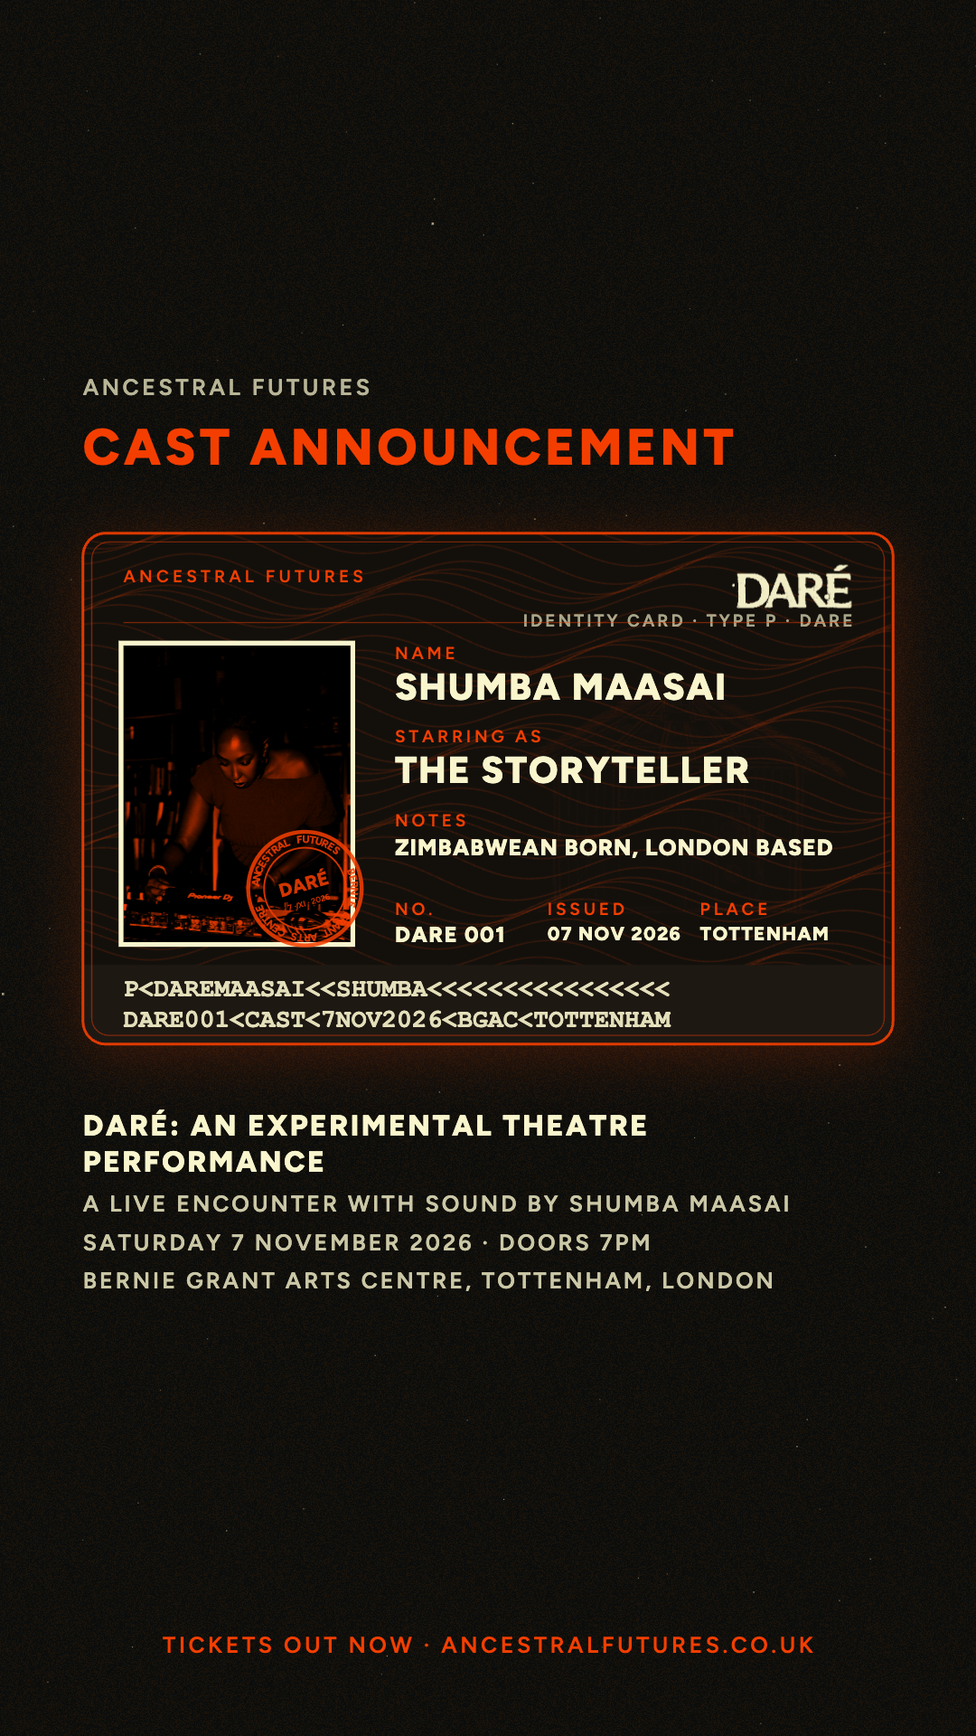
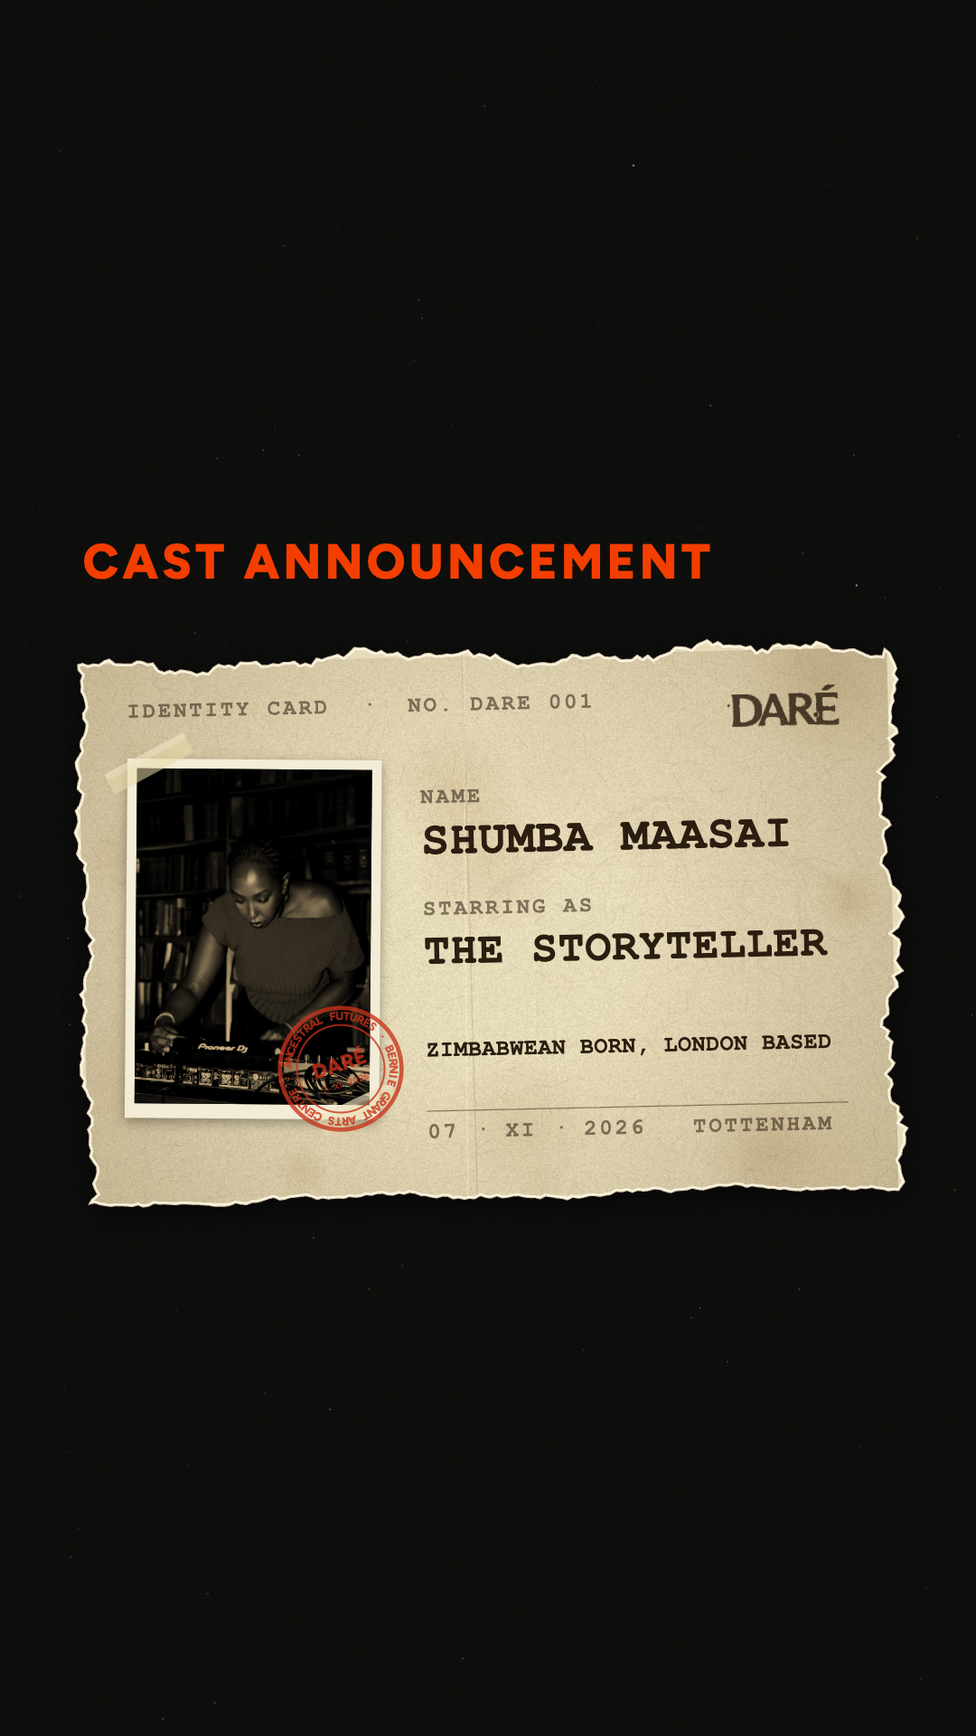
The cast card is a torn piece of old paper, and says less
What was a passport page read as a ticket, and then as a document with
too much on it. Now: paper drawn from noise, fibres, foxing and a fold,
torn along every edge with the fibres showing light at the tear, set
down a little askew with a plain shadow and no glow. The print is
pasted on with two strips of tape, sepia unless told otherwise. The
words are typed: the name, the part, one line about them, the date.
The frame carries the heading and nothing else; the date, the venue
and the ticket line belong in the caption.

diff --git a/public/cast.html b/public/cast.html
@@ -182,14 +182,9 @@
       </div>
 
       <details>
-        <summary>The show, on every card</summary>
+        <summary>On every card</summary>
         <div class="inner">
-          <label class="f">Show<input type="text" data-g="show"></label>
-          <label class="f">Line under it<input type="text" data-g="sub"></label>
-          <label class="f">Date<input type="text" data-g="date"></label>
-          <label class="f">Place<input type="text" data-g="place"></label>
-          <label class="f">Last line<input type="text" data-g="cta"></label>
-          <label class="f">Issued by<input type="text" data-g="issuer"></label>
+          <label class="f">On the stamp<input type="text" data-g="issuer"></label>
         </div>
       </details>
     </div>
@@ -221,16 +216,9 @@ const KINDS = {
   band:  { label:'Band',          heading:'The band',          roleLabel:'Playing' },
   guest: { label:'Special guest', heading:'Special guest',     roleLabel:'Appearing as' },
 };
-const TREATS = { orange:'Orange', natural:'Natural', mono:'Black and white' };
+const TREATS = { sepia:'Sepia', mono:'Black and white', orange:'Orange', natural:'Natural' };
 
-const GLOBAL_DEFAULT = {
-  show:'DARÉ: An Experimental Theatre Performance',
-  sub:'A live encounter with sound by Shumba Maasai',
-  date:'Saturday 7 November 2026 · Doors 7pm',
-  place:'Bernie Grant Arts Centre, Tottenham, London',
-  cta:'Tickets out now · ancestralfutures.co.uk',
-  issuer:'Ancestral Futures',
-};
+const GLOBAL_DEFAULT = { issuer:'Ancestral Futures' };
 
 // ---------- storage ----------
 const DB = { name:'dare-cast', store:'cards' };
@@ -342,7 +330,7 @@ const pic = document.createElement('canvas');
 function drawPicture(ctx, source, x, y, w, h, card) {
   ctx.save();
   ctx.beginPath(); ctx.rect(x, y, w, h); ctx.clip();
-  ctx.fillStyle = card.treat === 'orange' ? '#1a0a02' : '#101010';
+  ctx.fillStyle = card.treat === 'orange' ? '#1a0a02' : '#2a241c';
   ctx.fillRect(x, y, w, h);
   if (source) {
     const sw = source.videoWidth || source.naturalWidth || source.width;
@@ -357,11 +345,11 @@ function drawPicture(ctx, source, x, y, w, h, card) {
       } else {
         pic.width = Math.max(1, Math.round(w)); pic.height = Math.max(1, Math.round(h));
         const g = pic.getContext('2d');
-        g.filter = card.treat === 'orange' ? 'grayscale(1) contrast(1.35) brightness(0.95)' : 'grayscale(1) contrast(1.15)';
+        g.filter = card.treat === 'orange' ? 'grayscale(1) contrast(1.35) brightness(0.95)' : card.treat === 'sepia' ? 'grayscale(1) contrast(1.12) brightness(1.04)' : 'grayscale(1) contrast(1.15)';
         g.drawImage(source, dx - x, dy - y, dw, dh);
         g.filter = 'none';
-        if (card.treat === 'orange') {
-          g.globalCompositeOperation = 'multiply'; g.fillStyle = P.orange; g.fillRect(0, 0, pic.width, pic.height);
+        if (card.treat === 'orange' || card.treat === 'sepia') {
+          g.globalCompositeOperation = 'multiply'; g.fillStyle = card.treat === 'orange' ? P.orange : '#d2b685'; g.fillRect(0, 0, pic.width, pic.height);
           g.globalCompositeOperation = 'source-over';
         }
         ctx.drawImage(pic, x, y, w, h);
@@ -379,7 +367,7 @@ function drawPicture(ctx, source, x, y, w, h, card) {
 function stamp(ctx, cx, cy, r, text, angle) {
   ctx.save();
   ctx.translate(cx, cy); ctx.rotate(angle || -0.22);
-  ctx.strokeStyle = P.orange; ctx.fillStyle = P.orange; ctx.globalAlpha = 0.86;
+  ctx.strokeStyle = '#c8321a'; ctx.fillStyle = '#c8321a'; ctx.globalAlpha = 0.78;
   ctx.lineWidth = r * 0.07; ctx.beginPath(); ctx.arc(0, 0, r, 0, Math.PI * 2); ctx.stroke();
   ctx.lineWidth = r * 0.03; ctx.beginPath(); ctx.arc(0, 0, r * 0.72, 0, Math.PI * 2); ctx.stroke();
   ctx.font = `800 ${Math.round(r * 0.19)}px ${FONT}`; ctx.textAlign = 'center'; ctx.textBaseline = 'middle';
@@ -406,151 +394,171 @@ function mrz(text, len) {
 // ===========================================================
 // THE CARD
 // ===========================================================
+/* Paper, made once per size and kept: an uneven cream, the fibres,
+   the foxing, darker towards the edges, and one fold. Nothing in it is
+   a photograph; it is all drawn, so it never repeats from card to
+   card unless the seed does. */
+const paperCache = {};
+function paper(w, h, seed) {
+  const key = `${w}x${h}:${seed}`;
+  if (paperCache[key]) return paperCache[key];
+  const c = document.createElement('canvas'); c.width = w; c.height = h;
+  const g = c.getContext('2d'); const r = rnd(seed);
+  g.fillStyle = '#e6dbb9'; g.fillRect(0, 0, w, h);
+  const img = g.getImageData(0, 0, w, h); const d = img.data;
+  for (let i = 0; i < d.length; i += 4) { const n = (r() - 0.5) * 28; d[i] += n; d[i + 1] += n; d[i + 2] += n * 0.85; }
+  g.putImageData(img, 0, 0);
+  g.strokeStyle = 'rgba(110,80,40,0.11)'; g.lineWidth = 1;
+  for (let i = 0; i < (w * h) / 700; i++) { const x = r() * w, y = r() * h, a = r() * Math.PI, l = 4 + r() * 22; g.beginPath(); g.moveTo(x, y); g.lineTo(x + Math.cos(a) * l, y + Math.sin(a) * l); g.stroke(); }
+  for (let i = 0; i < 14; i++) {
+    const x = r() * w, y = r() * h, rad = w * (0.02 + r() * 0.1);
+    const gr = g.createRadialGradient(x, y, 0, x, y, rad);
+    gr.addColorStop(0, `rgba(140,95,40,${0.05 + r() * 0.12})`); gr.addColorStop(1, 'rgba(140,95,40,0)');
+    g.fillStyle = gr; g.fillRect(x - rad, y - rad, rad * 2, rad * 2);
+  }
+  const v = g.createRadialGradient(w / 2, h / 2, Math.min(w, h) * 0.25, w / 2, h / 2, Math.max(w, h) * 0.72);
+  v.addColorStop(0, 'rgba(90,60,20,0)'); v.addColorStop(1, 'rgba(90,60,20,0.3)');
+  g.fillStyle = v; g.fillRect(0, 0, w, h);
+  const fx = w * (0.42 + r() * 0.16);
+  g.strokeStyle = 'rgba(90,60,20,0.16)'; g.lineWidth = Math.max(1, w * 0.0015);
+  g.beginPath(); g.moveTo(fx, 0); g.lineTo(fx + (r() - 0.5) * w * 0.02, h); g.stroke();
+  g.strokeStyle = 'rgba(255,250,230,0.35)'; g.beginPath(); g.moveTo(fx + 2, 0); g.lineTo(fx + 2 + (r() - 0.5) * w * 0.02, h); g.stroke();
+  paperCache[key] = c;
+  return c;
+}
+
+/* The torn edge, as a path. Each side is a line with three waves of
+   noise laid on it, a long one, a short one and a jitter, and the top
+   and right are rougher than the bottom and left, which is how a piece
+   torn from a larger sheet comes away. */
+function tornPath(ctx, x, y, w, h, seed) {
+  const r = rnd(seed); const pts = [];
+  const edge = (x0, y0, x1, y1, rough) => {
+    const n = Math.max(14, Math.round(Math.hypot(x1 - x0, y1 - y0) / 6));
+    const len = Math.hypot(x1 - x0, y1 - y0); const ux = -(y1 - y0) / len, uy = (x1 - x0) / len;
+    const p1 = r() * 6.28, p2 = r() * 6.28, p3 = r() * 6.28;
+    for (let i = 0; i < n; i++) {
+      const t = i / n;
+      const a = (Math.sin(t * 6.28 * 2.3 + p1) * 0.5 + Math.sin(t * 6.28 * 7.1 + p2) * 0.3 + Math.sin(t * 6.28 * 23 + p3) * 0.15 + (r() - 0.5) * 0.5) * rough;
+      pts.push([x0 + (x1 - x0) * t + ux * a, y0 + (y1 - y0) * t + uy * a]);
+    }
+  };
+  edge(x, y, x + w, y, w * 0.014);
+  edge(x + w, y, x + w, y + h, w * 0.018);
+  edge(x + w, y + h, x, y + h, w * 0.007);
+  edge(x, y + h, x, y, w * 0.011);
+  ctx.beginPath(); pts.forEach((p, i) => (i ? ctx.lineTo(p[0], p[1]) : ctx.moveTo(p[0], p[1]))); ctx.closePath();
+}
+
+// A strip of old tape, yellowed and half see-through, laid across a corner.
+function tape(ctx, x, y, w, h, angle) {
+  ctx.save(); ctx.translate(x, y); ctx.rotate(angle);
+  ctx.fillStyle = 'rgba(232,218,170,0.55)'; ctx.fillRect(-w / 2, -h / 2, w, h);
+  ctx.fillStyle = 'rgba(255,255,255,0.18)'; ctx.fillRect(-w / 2, -h / 2, w, h * 0.3);
+  ctx.restore();
+}
+
+// ===========================================================
+// THE CARD
+// ===========================================================
 function draw(ctx, W, H, card, G, source, t) {
-  // the night
+  // the night, quiet
   ctx.fillStyle = P.ground; ctx.fillRect(0, 0, W, H);
   const r = rnd(card.seed || 7);
-  for (let i = 0; i < (W * H) / 20000; i++) { const x = r() * W, y = r() * H, s = r(); ctx.globalAlpha = 0.2 + s * 0.5; ctx.fillStyle = s > 0.93 ? P.cream : '#cfc9a8'; ctx.fillRect(x, y, s > 0.96 ? 2.4 : 1.2, s > 0.96 ? 2.4 : 1.2); }
+  for (let i = 0; i < (W * H) / 26000; i++) { const x = r() * W, y = r() * H, s = r(); ctx.globalAlpha = 0.15 + s * 0.4; ctx.fillStyle = s > 0.93 ? P.cream : '#cfc9a8'; ctx.fillRect(x, y, s > 0.96 ? 2 : 1.2, s > 0.96 ? 2 : 1.2); }
   ctx.globalAlpha = 1;
-  ctx.save(); ctx.globalAlpha = 0.5; const gx = -Math.floor(((t || 0) * 37) % 256), gy = -Math.floor(((t || 0) * 23) % 256);
+  ctx.save(); ctx.globalAlpha = 0.22; const gx = -Math.floor(((t || 0) * 37) % 256), gy = -Math.floor(((t || 0) * 23) % 256);
   ctx.translate(gx, gy); ctx.fillStyle = ctx.createPattern(grain, 'repeat'); ctx.fillRect(-gx, -gy, W, H); ctx.restore();
 
   const pad = W * 0.085;
-  // A square has less height to give, so its heading and the show
-  // beneath the card are set a little smaller than the story's.
   const k = Math.max(0.8, Math.min(1, (H / W) / 1.35));
-  const small = Math.round(W * 0.0235 * k);
-  const hs = Math.round(W * 0.052 * k);
-  const ss = Math.round(W * 0.03 * k);
-  const wrapRows = (text, size, tr, maxW, weight) => {
-    ctx.font = `${weight} ${size}px ${FONT}`;
-    const rows = []; let line = '';
-    for (const w of text.split(/\s+/)) { const tt = line ? line + ' ' + w : w; if (tracked(ctx, tt, size * tr) > maxW && line) { rows.push(line); line = w; } else line = tt; }
-    rows.push(line); return rows;
-  };
+  const hs = Math.round(W * 0.05 * k);
   const heading = (card.heading || KINDS[card.kind].heading).toUpperCase();
-  const headRows = wrapRows(heading, hs, 0.08, W - pad * 2, 800);
-  const showRows = wrapRows(G.show.toUpperCase(), ss, 0.08, W - pad * 2, 800);
-  const lines = [G.sub, G.date, G.place].filter(Boolean);
+  ctx.font = `800 ${hs}px ${FONT}`;
+  const headRows = []; let line = '';
+  for (const w of heading.split(/\s+/)) { const tt = line ? line + ' ' + w : w; if (tracked(ctx, tt, hs * 0.08) > W - pad * 2 && line) { headRows.push(line); line = w; } else line = tt; }
+  headRows.push(line);
 
-  /* The block, measured before anything is drawn: heading, card, show.
-     The card starts as wide as the frame allows and is narrowed until
-     the whole block fits above the line along the bottom, so the square
-     holds everything the story does, smaller. Then it is centred. */
-  const headH = small * 2.1 + headRows.length * hs * 1.18;
-  const detailH = showRows.length * ss * 1.25 + small * 0.4 + lines.length * small * 1.7;
-  const avail = H - pad * 2 - small * 2.2;
+  // the block: the heading and the paper, nothing else, centred. The
+  // date, the venue and the ticket line belong in the caption.
+  const headH = headRows.length * hs * 1.18;
+  const avail = H - pad * 2;
   let cw = W - pad * 2;
-  const blockH = (w) => headH + W * 0.05 + w / 1.586 + W * 0.07 + detailH;
+  const blockH = (w) => headH + W * 0.06 + w / 1.5;
   while (blockH(cw) > avail && cw > W * 0.6) cw *= 0.96;
-  const ch = cw / 1.586;
+  const ch = cw / 1.5;
   const y0 = pad + Math.max(0, (avail - blockH(cw)) / 2);
   const cx = (W - cw) / 2;
 
-  // the heading above the card
-  ctx.save();
-  ctx.textBaseline = 'top'; ctx.fillStyle = P.cream; ctx.globalAlpha = 0.72;
-  ctx.font = `600 ${small}px ${FONT}`; fillTracked(ctx, G.issuer.toUpperCase(), cx, y0, small * 0.14);
-  ctx.globalAlpha = 1; ctx.fillStyle = P.orange; ctx.font = `800 ${hs}px ${FONT}`;
-  let hy = y0 + small * 2.1;
-  for (const rw of headRows) { fillTracked(ctx, rw, cx, hy, hs * 0.08); hy += hs * 1.18; }
+  ctx.save(); ctx.textBaseline = 'top'; ctx.fillStyle = P.orange; ctx.font = `800 ${hs}px ${FONT}`;
+  let hy = y0; for (const rw of headRows) { fillTracked(ctx, rw, cx, hy, hs * 0.08); hy += hs * 1.18; }
   ctx.restore();
 
-  /* The card: a passport's data page rather than a ticket. A dark page
-     with the fine orange lines under everything, a double rule round the
-     edge with the corners rounded, the hut as the watermark, the
-     photograph in a cream frame, cream type with the labels in orange,
-     and the machine-readable lines on a strip along the bottom. */
-  const cy = y0 + headH + W * 0.05;
-  const rad = cw * 0.028;
-  const page = (x, y, w, h, rr) => { ctx.beginPath(); ctx.moveTo(x + rr, y); ctx.arcTo(x + w, y, x + w, y + h, rr); ctx.arcTo(x + w, y + h, x, y + h, rr); ctx.arcTo(x, y + h, x, y, rr); ctx.arcTo(x, y, x + w, y, rr); ctx.closePath(); };
+  /* The paper: a piece torn from a larger sheet, set down a little
+     askew, with a soft shadow under it and nothing glowing. */
+  const cy = y0 + headH + W * 0.06;
+  const seed = card.seed || 7;
   ctx.save();
-  ctx.shadowColor = 'rgba(244,62,0,0.22)'; ctx.shadowBlur = W * 0.06; ctx.shadowOffsetY = W * 0.01;
-  page(cx, cy, cw, ch, rad); ctx.fillStyle = '#13100c'; ctx.fill();
-  ctx.restore();
+  ctx.translate(cx + cw / 2, cy + ch / 2); ctx.rotate(-0.022); ctx.translate(-(cx + cw / 2), -(cy + ch / 2));
+  ctx.save(); ctx.shadowColor = 'rgba(0,0,0,0.6)'; ctx.shadowBlur = W * 0.03; ctx.shadowOffsetY = W * 0.008;
+  tornPath(ctx, cx, cy, cw, ch, seed); ctx.fillStyle = '#e6dbb9'; ctx.fill(); ctx.restore();
   ctx.save();
-  page(cx, cy, cw, ch, rad); ctx.clip();
-  ctx.globalAlpha = 1; ctx.drawImage(guilloche(Math.round(cw), Math.round(ch)), cx, cy); ctx.globalAlpha = 1;
-  if (ART.hutline) { const hw = cw * 0.46, hh = hw * (ART.hutline.height / ART.hutline.width); drawArt(ctx, ART.hutline, cx + cw * 0.5, cy + ch * 0.52 - hh / 2, hw, hh, P.orange, 0.13); }
-  // the header line: who issues it, and what it is
-  const ls = Math.round(ch * 0.034), vs = Math.round(ch * 0.072);
-  ctx.textBaseline = 'top';
-  ctx.fillStyle = P.orange; ctx.font = `600 ${ls}px ${FONT}`;
-  fillTracked(ctx, (G.issuer || 'Ancestral Futures').toUpperCase(), cx + cw * 0.05, cy + ch * 0.07, ls * 0.22);
-  if (ART.word) { const ww = cw * 0.15, wh = ww * (ART.word.height / ART.word.width); drawArt(ctx, ART.word, cx + cw * 0.95 - ww, cy + ch * 0.06, ww, wh, P.cream, 1); }
-  ctx.fillStyle = P.cream; ctx.globalAlpha = 0.65; ctx.font = `600 ${ls}px ${FONT}`;
-  const docText = (card.doc || 'Identity card').toUpperCase() + ' · TYPE P · DARE';
-  fillTracked(ctx, docText, cx + cw * 0.95 - tracked(ctx, docText, ls * 0.16), cy + ch * 0.07 + ls * 1.5 + ch * 0.035, ls * 0.16);
-  ctx.globalAlpha = 1;
-  ctx.strokeStyle = P.orange; ctx.globalAlpha = 0.45; ctx.lineWidth = Math.max(1, W * 0.0012);
-  ctx.beginPath(); ctx.moveTo(cx + cw * 0.05, cy + ch * 0.175); ctx.lineTo(cx + cw * 0.95, cy + ch * 0.175); ctx.stroke();
-  ctx.globalAlpha = 1;
+  tornPath(ctx, cx, cy, cw, ch, seed); ctx.clip();
+  ctx.drawImage(paper(Math.round(cw), Math.round(ch), seed), cx, cy);
+  if (ART.hutline) { const hw = cw * 0.5, hh = hw * (ART.hutline.height / ART.hutline.width); drawArt(ctx, ART.hutline, cx + cw * 0.47, cy + ch * 0.5 - hh / 2, hw, hh, '#5a3a1a', 0.1); }
+  // the torn edge's fibres, light along the inside of the tear
+  tornPath(ctx, cx, cy, cw, ch, seed); ctx.strokeStyle = 'rgba(255,250,232,0.9)'; ctx.lineWidth = Math.max(2, W * 0.006); ctx.stroke();
+  tornPath(ctx, cx, cy, cw, ch, seed); ctx.strokeStyle = 'rgba(120,85,45,0.35)'; ctx.lineWidth = Math.max(1, W * 0.002); ctx.stroke();
 
-  // the photograph, in a cream frame
-  const px = cx + cw * 0.05, py = cy + ch * 0.22, pw = cw * 0.28, ph = ch * 0.58;
-  ctx.fillStyle = P.cream; ctx.fillRect(px - cw * 0.006, py - cw * 0.006, pw + cw * 0.012, ph + cw * 0.012);
+  const INKP = '#2b1d10';
+  const ls = Math.round(ch * 0.04), vs = Math.round(ch * 0.085);
+  // a faint header, typed
+  ctx.textBaseline = 'top'; ctx.fillStyle = INKP; ctx.globalAlpha = 0.55; ctx.font = `700 ${ls}px ${MONO}`;
+  fillTracked(ctx, ((card.doc || 'Identity card') + '  ·  No. ' + (card.number || '')).toUpperCase(), cx + cw * 0.06, cy + ch * 0.07, ls * 0.12);
+  ctx.globalAlpha = 1;
+  if (ART.word) { const ww = cw * 0.14, wh = ww * (ART.word.height / ART.word.width); drawArt(ctx, ART.word, cx + cw * 0.94 - ww, cy + ch * 0.065, ww, wh, INKP, 0.85); }
+
+  // the photograph, an old print pasted on with a corner of tape
+  const px = cx + cw * 0.065, py = cy + ch * 0.2, pw = cw * 0.29, ph = ch * 0.62;
+  ctx.save();
+  ctx.translate(px + pw / 2, py + ph / 2); ctx.rotate(0.03); ctx.translate(-(px + pw / 2), -(py + ph / 2));
+  ctx.shadowColor = 'rgba(0,0,0,0.35)'; ctx.shadowBlur = W * 0.012; ctx.shadowOffsetY = W * 0.004;
+  ctx.fillStyle = '#f3ecd6'; ctx.fillRect(px - cw * 0.012, py - cw * 0.012, pw + cw * 0.024, ph + cw * 0.03);
+  ctx.shadowColor = 'transparent';
   drawPicture(ctx, source, px, py, pw, ph, card);
+  tape(ctx, px + pw * 0.05, py - cw * 0.006, cw * 0.11, cw * 0.028, -0.5);
+  tape(ctx, px + pw * 0.95, py + ph + cw * 0.005, cw * 0.1, cw * 0.026, -0.45);
+  ctx.restore();
 
-  // the fields
-  const fx = cx + cw * 0.385, fw = cw * 0.565;
-  let fy = cy + ch * 0.22;
+  // the words, typed: as few as will say it
+  const fx = cx + cw * 0.42, fw = cw * 0.52;
+  let fy = cy + ch * 0.24;
   const field = (label, value, big) => {
     ctx.textBaseline = 'top';
-    ctx.fillStyle = P.orange; ctx.font = `600 ${ls}px ${FONT}`;
-    fillTracked(ctx, label.toUpperCase(), fx, fy, ls * 0.2);
-    fy += ls * 1.45;
-    const size = big ? vs : Math.round(vs * 0.74);
-    const sz = fitTracked(ctx, value.toUpperCase(), fw, size, 0.04, 800);
-    ctx.fillStyle = P.cream; fillTracked(ctx, value.toUpperCase(), fx, fy, sz * 0.04);
-    fy += sz * 1.22 + ch * 0.026;
+    ctx.fillStyle = INKP; ctx.globalAlpha = 0.55; ctx.font = `700 ${ls}px ${MONO}`;
+    fillTracked(ctx, label.toUpperCase(), fx, fy, ls * 0.12);
+    ctx.globalAlpha = 1; fy += ls * 1.5;
+    const size = big ? vs : Math.round(vs * 0.7);
+    const sz = fitTracked(ctx, value.toUpperCase(), fw, size, 0.02, 700, MONO);
+    ctx.font = `700 ${Math.round(sz)}px ${MONO}`;
+    fillTracked(ctx, value.toUpperCase(), fx, fy, sz * 0.02);
+    fy += sz * 1.25 + ch * 0.04;
   };
   field('Name', card.name || ' ', true);
   field(card.roleLabel || KINDS[card.kind].roleLabel, card.role || ' ', true);
-  if (card.note) field('Notes', card.note, false);
-  // the small facts along the bottom of the fields
-  const facts = [['No.', card.number || ''], ['Issued', '07 NOV 2026'], ['Place', 'Tottenham']];
-  let fxx = fx; const fyy = cy + ch * 0.72;
-  ctx.textBaseline = 'top';
-  for (const [l, v] of facts) {
-    ctx.fillStyle = P.orange; ctx.font = `600 ${ls}px ${FONT}`; fillTracked(ctx, l.toUpperCase(), fxx, fyy, ls * 0.2);
-    ctx.fillStyle = P.cream; leftFit(ctx, v.toUpperCase(), fxx, fyy + ls * 1.4, fw / 3 - ls * 0.9, Math.round(ls * 1.25), 0.06, 800);
-    fxx += fw / 3;
-  }
-  // the machine-readable zone, on its own strip
-  const my = cy + ch * 0.87;
-  ctx.fillStyle = '#1e1813'; ctx.fillRect(cx, my - ch * 0.025, cw, ch * 0.16);
-  ctx.fillStyle = P.cream; ctx.globalAlpha = 0.9; ctx.font = `700 ${Math.round(ch * 0.05)}px ${MONO}`; ctx.textBaseline = 'top';
-  const parts = (card.name || '').trim().split(/\s+/); const last = parts.length > 1 ? parts.pop() : ''; const given = parts.join('<');
-  const l1 = mrz(`P<DARE${last}<<${given}`, 36);
-  const l2 = mrz(`${(card.number || 'DARE000').replace(/\s+/g, '')}<${card.kind || 'cast'}<7NOV2026<BGAC<TOTTENHAM`, 36);
-  ctx.fillText(l1, cx + cw * 0.05, my);
-  ctx.fillText(l2, cx + cw * 0.05, my + ch * 0.06);
+  if (card.note) field('', card.note, false);
+  // a rule to sign on, and the date typed under it
+  ctx.strokeStyle = INKP; ctx.globalAlpha = 0.5; ctx.lineWidth = Math.max(1, W * 0.0012);
+  ctx.beginPath(); ctx.moveTo(fx, cy + ch * 0.84); ctx.lineTo(fx + fw, cy + ch * 0.84); ctx.stroke();
+  ctx.globalAlpha = 0.55; ctx.font = `700 ${ls}px ${MONO}`; ctx.textBaseline = 'top';
+  fillTracked(ctx, '07 · XI · 2026   TOTTENHAM', fx, cy + ch * 0.86, ls * 0.12);
   ctx.globalAlpha = 1;
   ctx.restore();
-  // the double rule round the edge
-  ctx.save();
-  ctx.strokeStyle = P.orange; ctx.globalAlpha = 0.9; ctx.lineWidth = Math.max(1.5, W * 0.0028);
-  page(cx, cy, cw, ch, rad); ctx.stroke();
-  ctx.globalAlpha = 0.45; ctx.lineWidth = Math.max(1, W * 0.0012);
-  page(cx + W * 0.009, cy + W * 0.009, cw - W * 0.018, ch - W * 0.018, rad * 0.75); ctx.stroke();
+
+  // the stamp, red ink, pressed over the corner of the print
+  stamp(ctx, px + pw * 0.86, py + ph * 0.9, cw * 0.075, ` · ${(G.issuer || 'Ancestral Futures')} · BERNIE GRANT ARTS CENTRE`, -0.3);
   ctx.restore();
 
-  // the stamp, over the lower corner of the photograph
-  stamp(ctx, px + pw * 0.8, py + ph * 0.82, cw * 0.07, ' · ANCESTRAL FUTURES · BERNIE GRANT ARTS CENTRE', -0.28);
-
-  // the show, under the card
-  let y = cy + ch + W * 0.07;
-  ctx.save(); ctx.textBaseline = 'top'; ctx.fillStyle = P.cream;
-  ctx.font = `800 ${ss}px ${FONT}`;
-  for (const rw of showRows) { fillTracked(ctx, rw, cx, y, ss * 0.08); y += ss * 1.25; }
-  y += small * 0.4;
-  ctx.globalAlpha = 0.8; ctx.font = `600 ${small}px ${FONT}`;
-  for (const l of lines) { leftFit(ctx, l.toUpperCase(), cx, y, W - pad * 2, small, 0.12); y += small * 1.7; }
-  ctx.restore();
-  // the ask, along the bottom
-  ctx.save(); ctx.textBaseline = 'alphabetic'; ctx.fillStyle = P.orange;
-  centreFit(ctx, G.cta.toUpperCase(), W / 2, H - pad, W - pad * 2, small, 0.14);
-  ctx.restore();
 }
 
 // ===========================================================
@@ -572,7 +580,7 @@ const uid = () => 'c' + Date.now().toString(36) + Math.random().toString(36).sli
 function newCard(kind) {
   const n = cards.length + 1;
   return { id: uid(), kind: kind || 'cast', heading: '', name: '', roleLabel: '', role: '', note: '', number: `DARE ${String(n).padStart(3, '0')}`, doc: 'Identity card',
-           treat: 'orange', fx: 0.5, fy: 0.35, zoom: 1, seed: Math.floor(Math.random() * 1e6), media: null, mediaType: '', mediaName: '' };
+           treat: 'sepia', fx: 0.5, fy: 0.35, zoom: 1, seed: Math.floor(Math.random() * 1e6), media: null, mediaType: '', mediaName: '' };
 }
 
 // The media each card holds, as something the canvas can draw. Pictures

diff --git a/README.md b/README.md
@@ -45,11 +45,13 @@ npm run dev
   with the name, a live dot, the time and a camera number round it, and
   records the result off the canvas as MP4 (Chrome) or WebM.
 - `/cast.html` is the cast and crew announcer for the live show: an
-  identity card per person, drawn as a passport's data page, with a
-  picture or a clip in the window, their name, their part ("Starring as",
-  "Playing", "Role") and a line about them, the stamp and the
-  machine-readable lines. Cards are kept in the browser's own storage so
-  they can be edited later, and come out as PNG or as a recorded clip.
+  identity card per person on a torn piece of aged paper, all of it
+  drawn, with their picture or clip pasted on as an old print, their
+  name, their part ("Starring as", "Playing", "Role") and a line about
+  them in typewriter capitals, and the stamp. Nothing else on the frame
+  but the heading; the date, venue and ticket line go in the caption.
+  Cards are kept in the browser's own storage so they can be edited
+  later, and come out as PNG or as a recorded clip.
 - Any post on the rollout can be drawn alone at full size with
   `/rollout.html?export=<key>&fmt=<story|portrait|square|wide>`, and the
   two tools with `?export=1&fmt=…`. A headless Chrome screenshot of that
